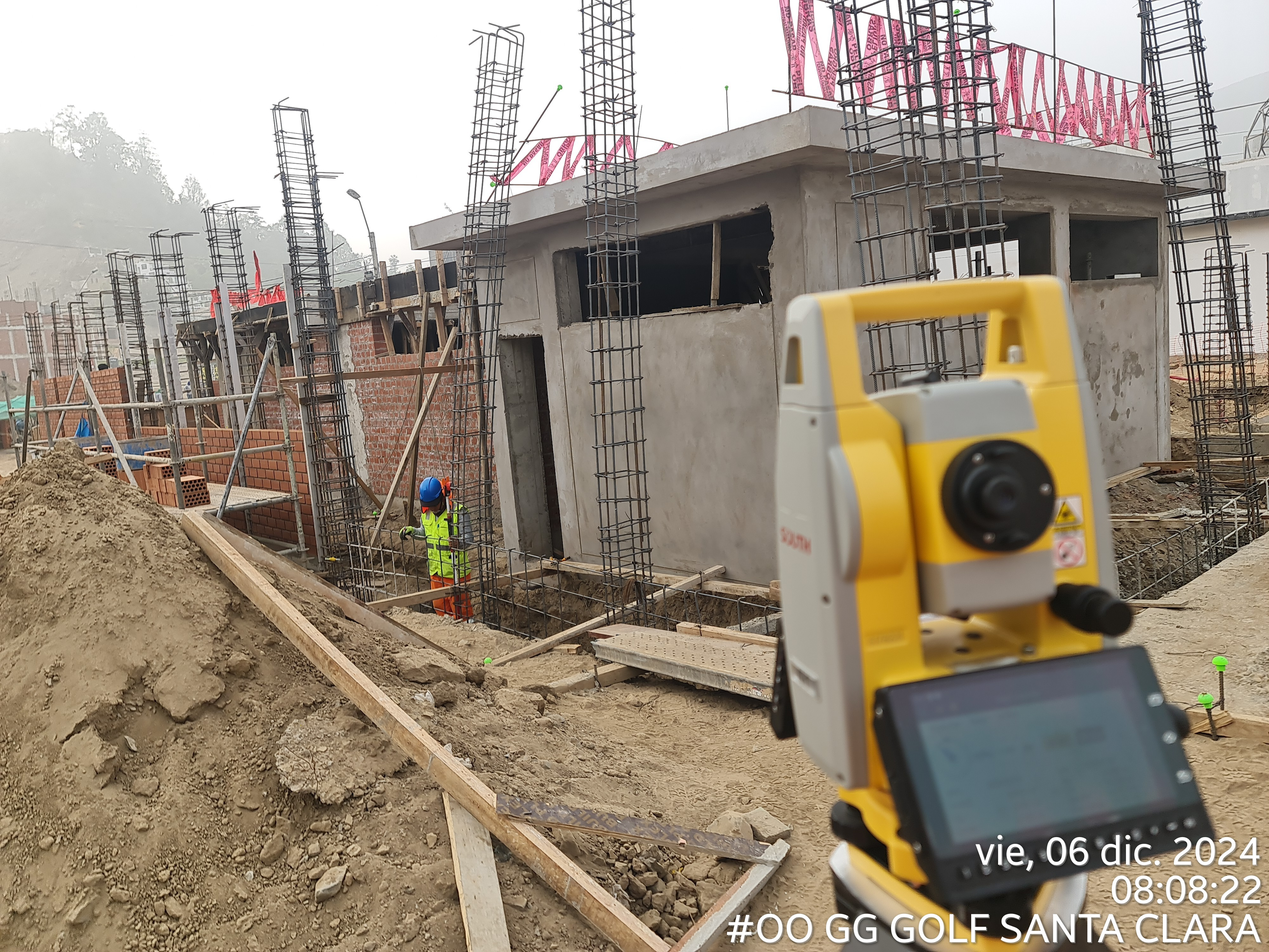
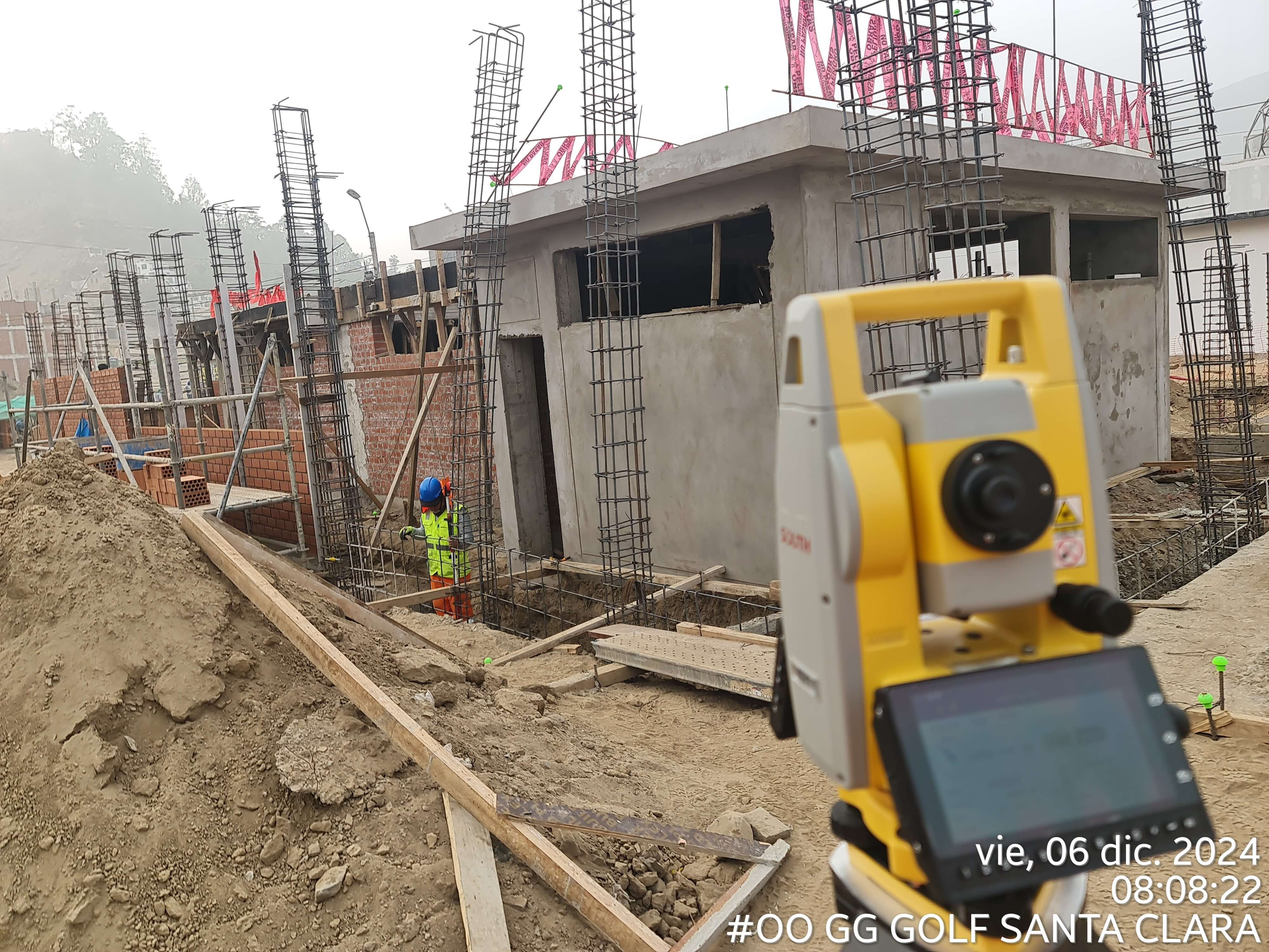
mejorando la imagen y correo de contacto

diff --git a/index.html b/index.html
@@ -147,7 +147,7 @@
                 <div class="md:w-2/5 flex justify-center">
                     <div class="relative">
                         <div class="absolute inset-0 bg-brand-600 rounded-2xl transform translate-x-4 translate-y-4"></div>
-                        <img src="./img/foto-perfil.jpg" onerror="this.src='https://placehold.co/400x500/2563eb/ffffff?text=Foto+Max'" alt="Foto de Max Ventura" class="relative z-10 rounded-2xl shadow-xl w-64 md:w-80 object-cover border-4 border-white aspect-[4/5]">
+                        <img src="./img/foto-perfil.jpg" onerror="this.src='https://placehold.co/800x1000/2563eb/ffffff?text=Foto+Max'" alt="Foto de Max Ventura" class="relative z-10 rounded-2xl shadow-xl w-64 md:w-80 object-cover object-center border-4 border-white aspect-[4/5] bg-white">
                     </div>
                 </div>
             </div>
@@ -269,8 +269,7 @@
                 <!-- Proyecto 1 -->
                 <div class="group bg-white rounded-2xl overflow-hidden border border-slate-200 shadow-sm hover:shadow-xl transition-all duration-300 transform hover:-translate-y-1">
                     <div class="relative h-48 overflow-hidden">
-                        <!-- Usando fallback con onerror por si la imagen local no existe aún -->
-                        <img src="./img/proyecto-1.jpg" onerror="this.src='https://placehold.co/600x400/f8fafc/94a3b8?text=Foto+Obra+1'" alt="Edificio Multifamiliar" class="w-full h-full object-cover group-hover:scale-105 transition-transform duration-500">
+                        <img src="./img/proyecto-1.jpg" onerror="this.src='https://placehold.co/1200x800/f8fafc/94a3b8?text=Foto+Obra+1'" alt="Edificio Multifamiliar" loading="lazy" class="w-full h-full object-cover object-center group-hover:scale-105 transition-transform duration-500">
                     </div>
                     <div class="p-6">
                         <h3 class="text-xl font-bold text-slate-900 mb-2">Edificio Multifamiliar "Los Pinos"</h3>
@@ -287,7 +286,7 @@
                 <!-- Proyecto 2 -->
                 <div class="group bg-white rounded-2xl overflow-hidden border border-slate-200 shadow-sm hover:shadow-xl transition-all duration-300 transform hover:-translate-y-1">
                     <div class="relative h-48 overflow-hidden">
-                        <img src="./img/proyecto-2.jpg" onerror="this.src='https://placehold.co/600x400/f8fafc/94a3b8?text=Planos+Puente'" alt="Diseño de Puente" class="w-full h-full object-cover group-hover:scale-105 transition-transform duration-500">
+                        <img src="./img/proyecto-2.jpg" onerror="this.src='https://placehold.co/1200x800/f8fafc/94a3b8?text=Planos+Puente'" alt="Diseño de Puente" loading="lazy" class="w-full h-full object-cover object-center group-hover:scale-105 transition-transform duration-500">
                     </div>
                     <div class="p-6">
                         <h3 class="text-xl font-bold text-slate-900 mb-2">Diseño Estructural de Puente</h3>
@@ -304,7 +303,7 @@
                 <!-- Proyecto 3 -->
                 <div class="group bg-white rounded-2xl overflow-hidden border border-slate-200 shadow-sm hover:shadow-xl transition-all duration-300 transform hover:-translate-y-1">
                     <div class="relative h-48 overflow-hidden">
-                        <img src="./img/proyecto-3.jpg" onerror="this.src='https://placehold.co/600x400/f8fafc/94a3b8?text=Modelo+BIM'" alt="Modelado BIM" class="w-full h-full object-cover group-hover:scale-105 transition-transform duration-500">
+                        <img src="./img/proyecto-3.jpg" onerror="this.src='https://placehold.co/1200x800/f8fafc/94a3b8?text=Modelo+BIM'" alt="Modelado BIM" loading="lazy" class="w-full h-full object-cover object-center group-hover:scale-105 transition-transform duration-500">
                     </div>
                     <div class="p-6">
                         <h3 class="text-xl font-bold text-slate-900 mb-2">Coordinación BIM Centro Comercial</h3>
@@ -379,8 +378,7 @@
                         
                         <input type="hidden" name="_subject" value="¡Nuevo mensaje de tu Portafolio web!">
                         <input type="hidden" name="_captcha" value="false">
-                        <!-- Redirigir a la misma página después de enviar -->
-                        <input type="hidden" name="_next" value="https://TU_LINK_DE_VERCEL.vercel.app/#contacto">
+                        <!-- Redirección temporalmente eliminada para poder ver el mensaje de éxito de FormSubmit y validar el correo -->
 
                         <div class="space-y-4">
                             <div>
